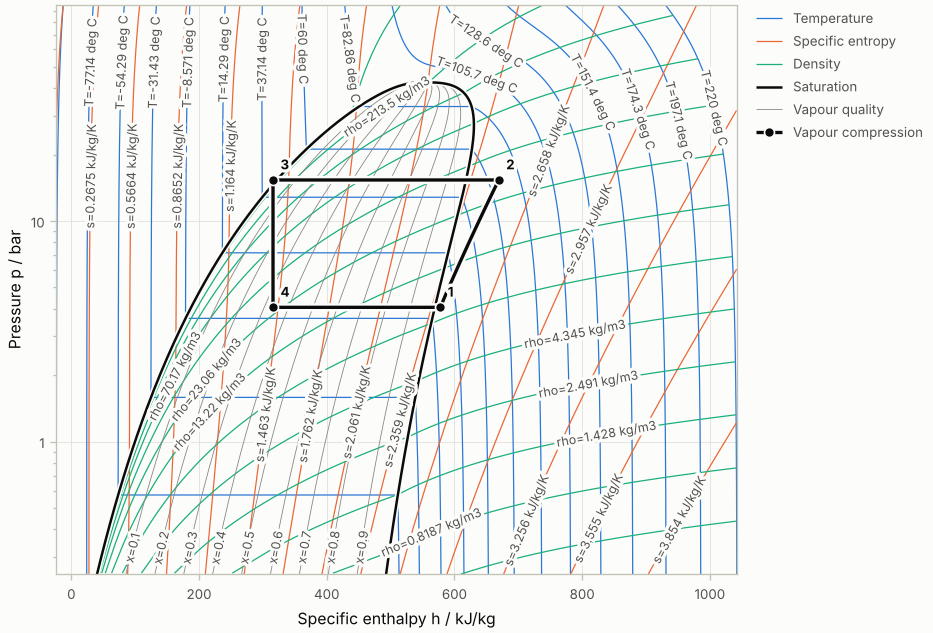
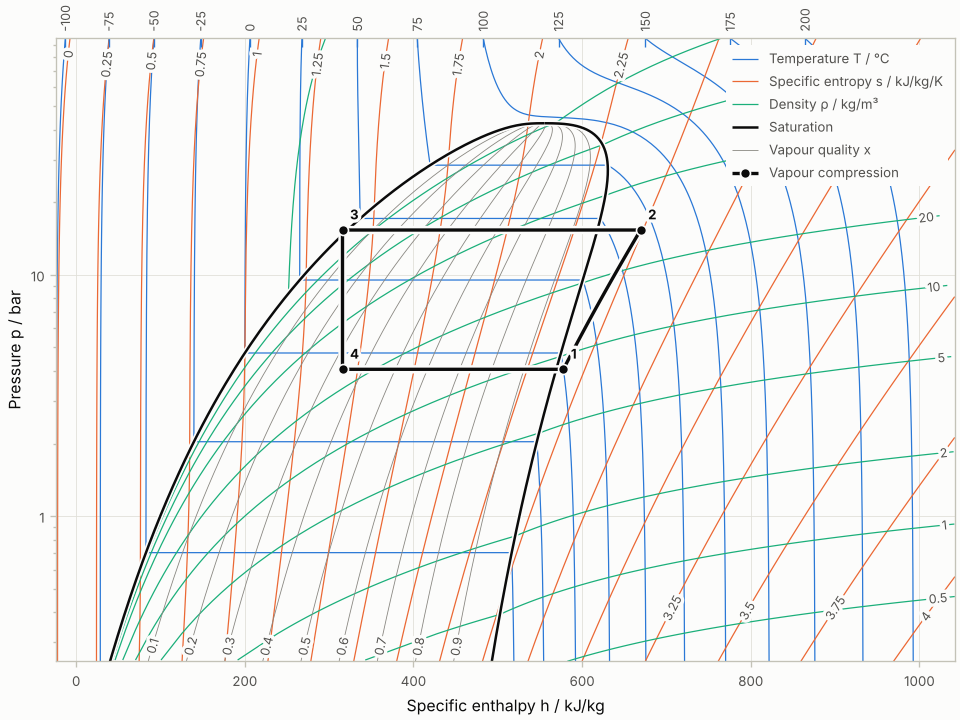
New cover picture for the README and the landing page
The old picture was drawn before 1.2: full labels at the frame, the
legend outside and plain "rho" and "deg C". The new one is drawn by the
code next to it, now with rounding=True so the lines sit at round
values: labels on rails, the legend inside the plot and the symbols of
1.4. 960 x 720 px at 120 dpi.

Changed region(s): [[0.0, 0.0, 1.0, 0.9905], [0.9325, 0.5703, 0.9636, 0.6003]]

diff --git a/CHANGELOG.md b/CHANGELOG.md
@@ -37,6 +37,9 @@ guide in the documentation says what to change in your code.
 - coolplot-core 1.4.0. The Python bridge hands a chart with "unicode"
   symbols to the Python composer, with a warning, when the installed
   core is older.
+- A new picture on the landing page and in the README, drawn by the code
+  next to it (now with round values, `rounding=True`): labels on rails,
+  the legend inside the plot and the symbols of 1.4.
 
 ## [1.3.0] - 2026-10-22
 

diff --git a/README.md b/README.md
@@ -22,7 +22,7 @@ from coolplot import PropertyDiagram
 from coolplot.thermo.cycles import simple_compression
 
 diagram = PropertyDiagram("R290", "ph", units="engineering", tp_limits="ACHP")
-diagram.set_default_lines(labels=True)
+diagram.set_default_lines(labels=True, rounding=True)
 diagram.add_cycle(simple_compression("R290", T_evap_C=-5, T_cond_C=45, dT_sh_K=5))
 diagram.save("R290_ph.png")           # or .pdf, .svg; show() opens a window
 ```

diff --git a/docs/index.md b/docs/index.md
@@ -13,7 +13,7 @@ from coolplot import PropertyDiagram
 from coolplot.thermo.cycles import simple_compression
 
 diagram = PropertyDiagram("R290", "ph", units="engineering", tp_limits="ACHP")
-diagram.set_default_lines(labels=True)
+diagram.set_default_lines(labels=True, rounding=True)
 diagram.add_cycle(simple_compression("R290", T_evap_C=-5, T_cond_C=45, dT_sh_K=5))
 diagram.save("R290_ph.png")
 ```
